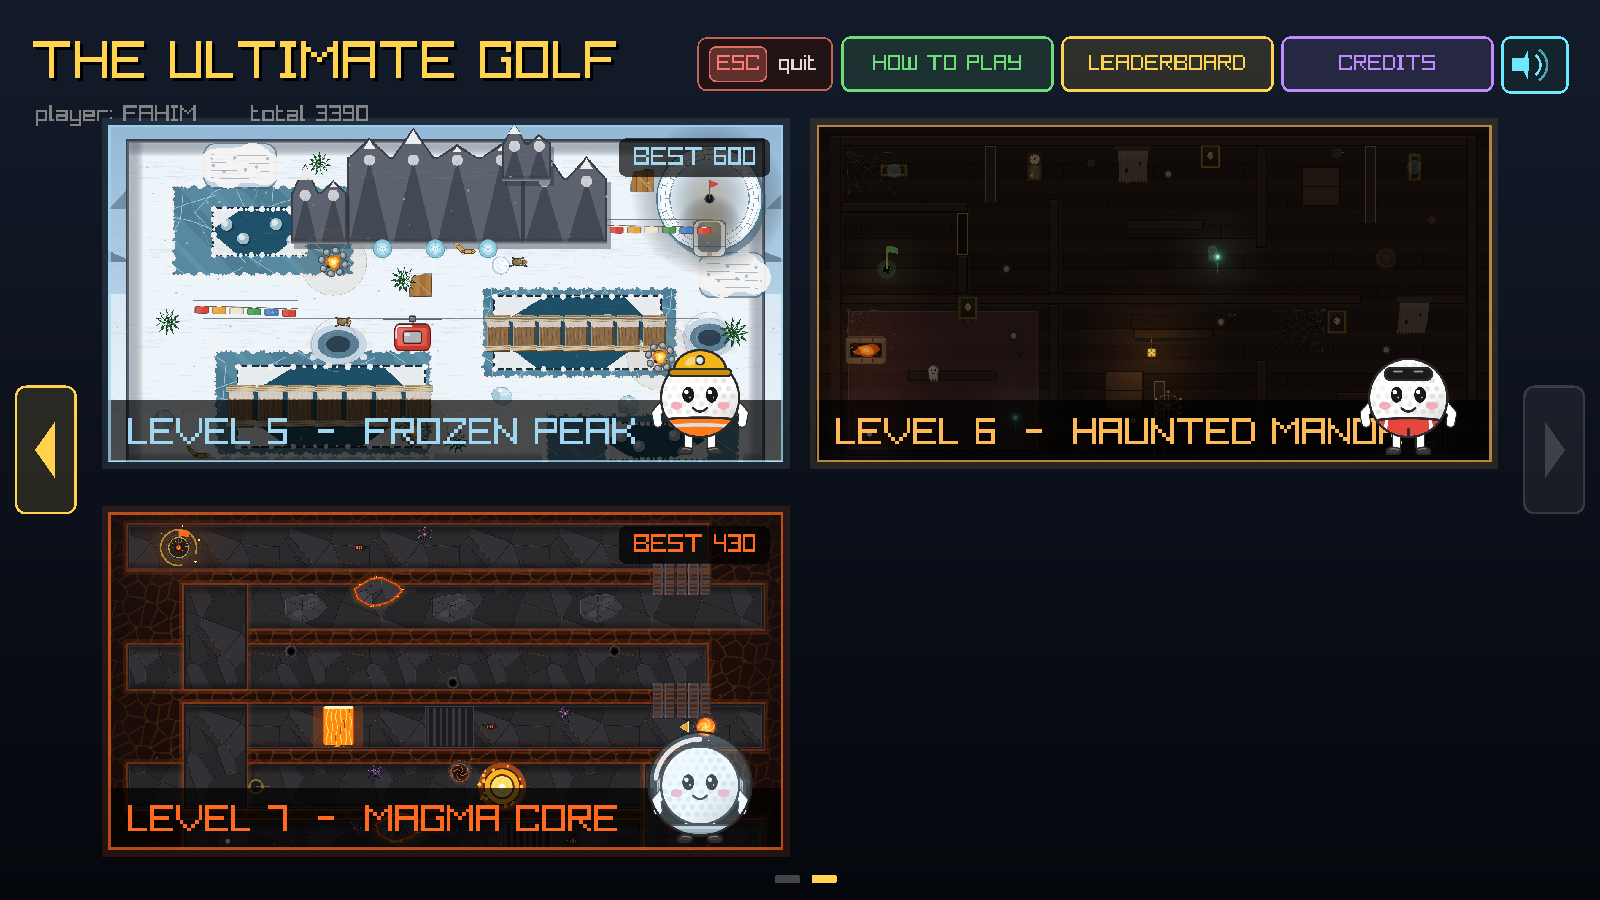
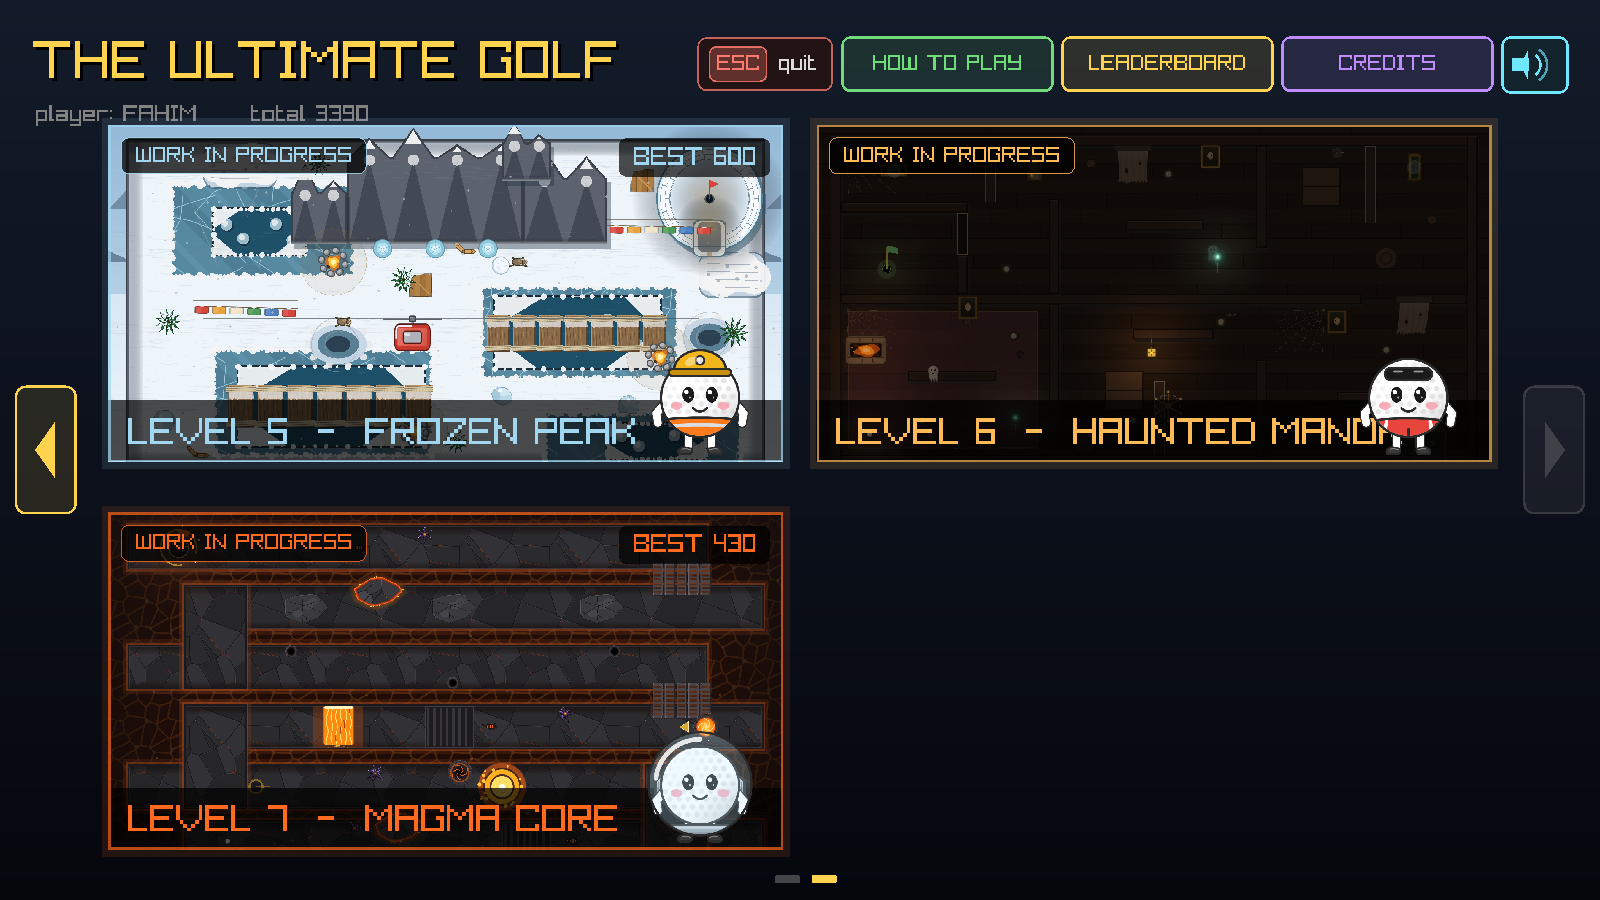
Mark levels 5, 6 and 7 as work in progress on the menu
A tag on the three new cards, in each level's own colour, so anyone opening
the game knows the last three courses are still being built.

Changed region(s): [[0.0625, 0.56, 0.25, 0.6222], [0.0625, 0.1556, 0.25, 0.2178], [0.5312, 0.1556, 0.6562, 0.1867]]

diff --git a/src/the_ultimate_golf.c b/src/the_ultimate_golf.c
@@ -795,6 +795,16 @@ void draw_menu()
             DrawRectangleRounded(tag,0.4,8,Fade(BLACK,0.7));
             DrawText(best,tag.x+18*su,tag.y+8*su,30*su,card_colour[n]);
         }
+        //levels 5, 6 and 7 are still being built, and the card says so
+        if (n>=4)
+        {
+            const char *wip = "WORK IN PROGRESS";
+            float wip_w = MeasureText(wip,26*su)+36*su;
+            Rectangle tag = {d.x+16*su,d.y+16*su,wip_w,42*su};
+            DrawRectangleRounded(tag,0.4,8,Fade(BLACK,0.75));
+            DrawRectangleRoundedLines(tag,0.4,8,Fade(card_colour[n],0.8));
+            DrawText(wip,tag.x+18*su,tag.y+8*su,26*su,card_colour[n]);
+        }
         if (hover==1) DrawRectangleLinesEx(d,5*su,card_colour[n]);
         else DrawRectangleLinesEx(d,3*su,Fade(card_colour[n],0.7));
 
